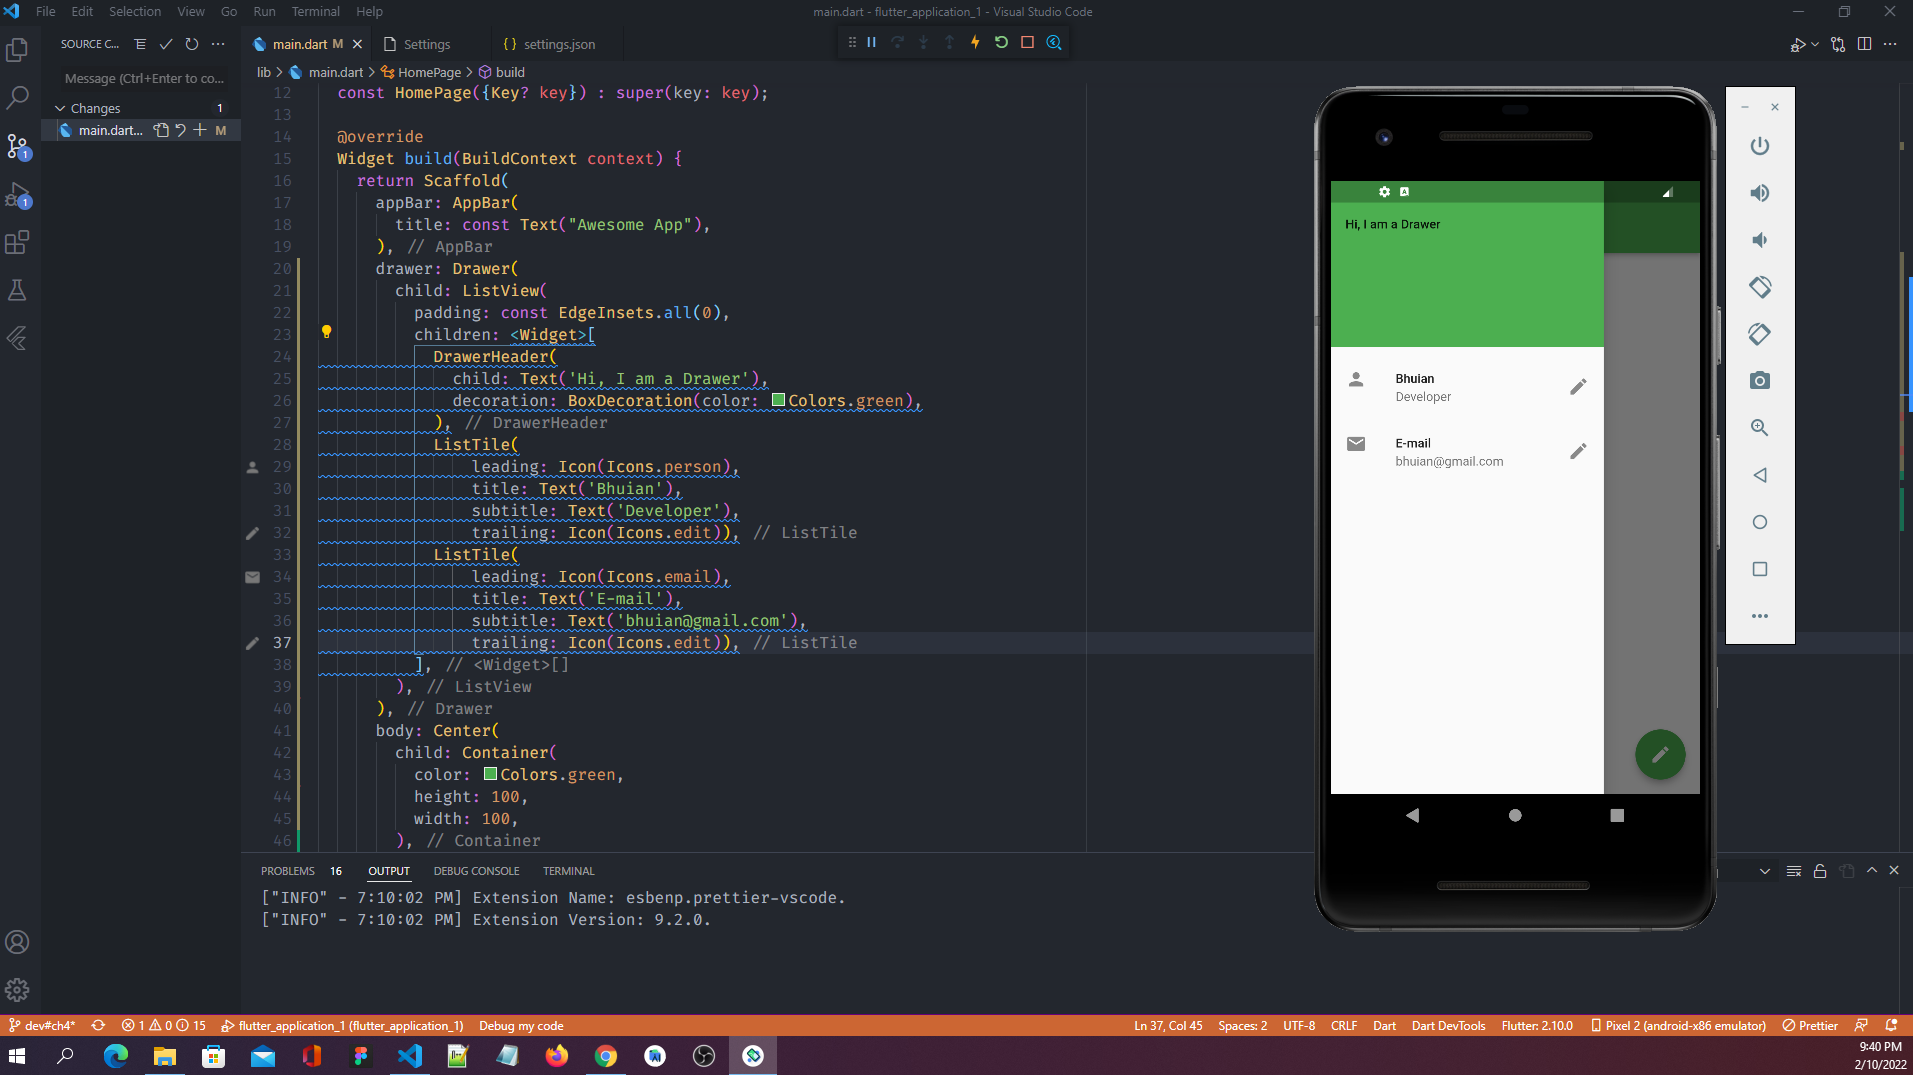
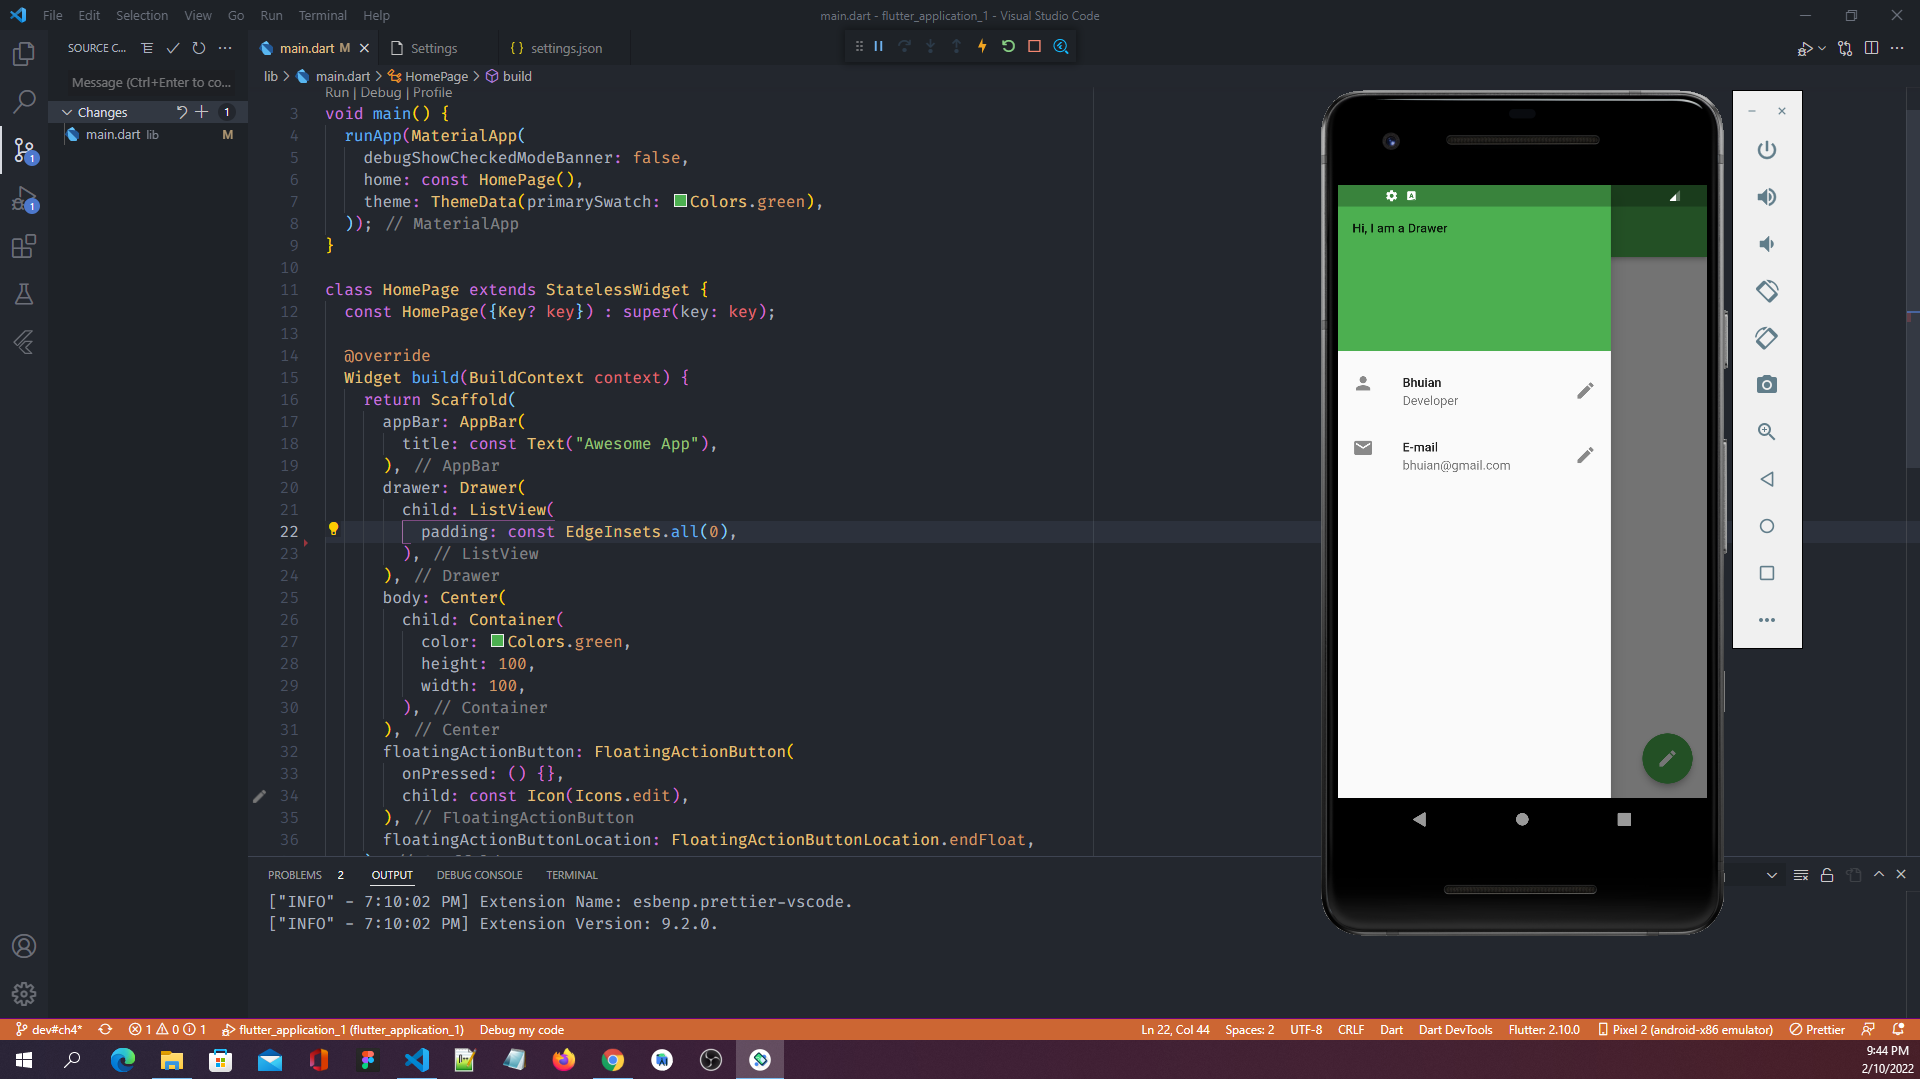
flutter10.10

diff --git a/lib/main.dart b/lib/main.dart
@@ -20,22 +20,6 @@ class HomePage extends StatelessWidget {
       drawer: Drawer(
         child: ListView(
           padding: const EdgeInsets.all(0),
-          children: <Widget>[
-            DrawerHeader(
-              child: Text('Hi, I am a Drawer'),
-              decoration: BoxDecoration(color: Colors.green),
-            ),
-            ListTile(
-                leading: Icon(Icons.person),
-                title: Text('Bhuian'),
-                subtitle: Text('Developer'),
-                trailing: Icon(Icons.edit)),
-            ListTile(
-                leading: Icon(Icons.email),
-                title: Text('E-mail'),
-                subtitle: Text('bhuian@gmail.com'),
-                trailing: Icon(Icons.edit)),
-          ],
         ),
       ),
       body: Center(
